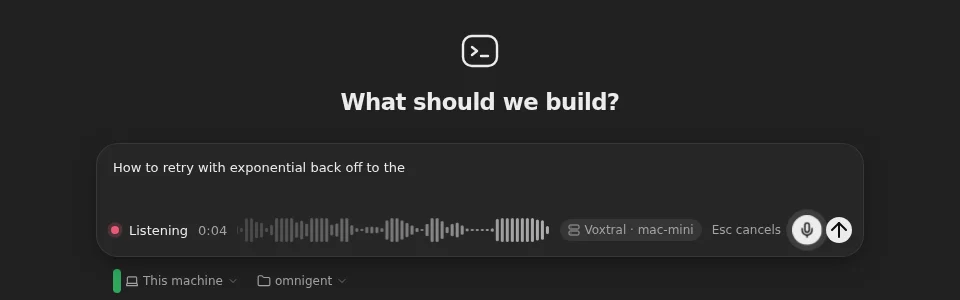
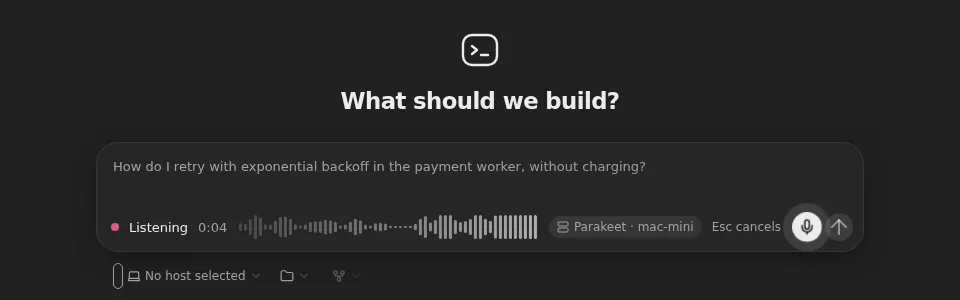
Name Parakeet as the speech server's own model in push-to-talk
The Mac mini's speech server now transcribes with NVIDIA's Parakeet TDT
0.6B v3 instead of Voxtral Realtime, which kept the base M2 busy 60-105%
of real time. Its protocol is unchanged, except that the local engine now
also sends words that may still change, which the composer already dims.

Settings → Speech and the listening bar say "Parakeet on mac-mini" and
"Parakeet · mac-mini", with Parakeet's latency (last words ~0.3 s after
you let go, was ~0.8 s). Mistral's cloud keeps its Voxtral name, but is
no longer "the same model". Docs, screenshots and the test skill follow.

diff --git a/docs/features/push-to-talk.md b/docs/features/push-to-talk.md
@@ -2,11 +2,12 @@
 
 Hold a key, or the mic button next to Send, and talk: your words stream into
 the composer as you say them. Let go, and the last words land a moment
-later. The speech is recognized by your own speech server, a Voxtral
-Realtime server on your tailnet (such as a Mac mini), which can also pass
-your voice on to Mistral's or Deepgram's cloud.
+later. The speech is recognized by your own speech server on your tailnet
+(such as a Mac mini), with NVIDIA's Parakeet, and it can also pass your voice
+on to Mistral's or Deepgram's cloud. Parakeet knows Dutch, English and 23
+more European languages, and tells them apart by itself.
 
-![The New session composer while you talk: the words so far, and below them a red dot, the time, a live waveform, Voxtral · mac-mini and Esc cancels, next to the highlighted mic button](../images/push-to-talk-composer.webp)
+![The New session composer while you talk: the words so far, dimmed while they may still change, and below them a red dot, the time, a live waveform, Parakeet · mac-mini and Esc cancels, next to the highlighted mic button](../images/push-to-talk-composer.webp)
 
 ## What you'll notice
 
@@ -20,7 +21,7 @@ your voice on to Mistral's or Deepgram's cloud.
   you're loud. The words appear at the caret and fade in as they arrive.
   Once they fill the composer, it scrolls to keep the newest ones in view.
 - **Let go**, and the bar says **Finishing** while the last words arrive:
-  about 0.8 seconds later with Voxtral on your server. The text stays in the
+  about 0.3 seconds later with Parakeet on your server. The text stays in the
   composer for you to check and send, or goes straight out if you turn on
   **Send when you let go**.
 - **Esc cancels**, and puts the draft back as it was. On a phone, slide
@@ -31,14 +32,14 @@ your voice on to Mistral's or Deepgram's cloud.
 
 ## Settings → Speech
 
-![Settings → Speech: the three models with their cost, the push-to-talk key with a Change button, and Send when you let go](../images/push-to-talk-settings.webp)
+![Settings → Speech: the three models with their cost, the push-to-talk key with a Change button, Send when you let go, and the words to listen for, which Parakeet can't use](../images/push-to-talk-settings.webp)
 
 | Setting | What it does |
 | --- | --- |
-| **Transcription model** | **Voxtral on your server** runs on the speech server's own machine: free and private. **Voxtral on Mistral's cloud** is the same model on Mistral's servers. **Deepgram Nova-3** shows words while you're still saying them, dimmed, and corrects them. The two cloud ones are billed per minute of audio. |
+| **Transcription model** | **Parakeet on your server** runs on the speech server's own machine: free and private. **Voxtral on Mistral's cloud** is Mistral's Voxtral Realtime. **Parakeet** and **Deepgram Nova-3** show words while you're still saying them, dimmed, and correct them. The two cloud ones are billed per minute of audio. |
 | **Push-to-talk key** | The key you hold. **Change**, then press the key you want; Esc keeps the old one. Held together with another key, it's a shortcut instead, and the take is dropped. |
 | **Send when you let go** | Off: the words stay in the composer. On: they're sent straight away. |
-| **Words to listen for** | Names and jargon the cloud models should expect, such as `Omnigent` or `k3s`. Voxtral on your own server can't use them. |
+| **Words to listen for** | Names and jargon the cloud models should expect, such as `Omnigent` or `k3s`. Parakeet on your own server can't use them. |
 | **Speech server** | Where your voice goes, and whether this device can reach it. |
 
 These are saved in the browser, so set them once on each device. They're part
@@ -61,7 +62,7 @@ Deepgram either.
 
 ## Setting it up
 
-1. Run a Voxtral Realtime speech server on a machine on your tailnet, behind
+1. Run a speech server on a machine on your tailnet, behind
    `tailscale serve` so it has HTTPS. The one this was built with streams
    16 kHz PCM over `wss://<machine>/stream` and is described in its own
    `API.md`.
@@ -80,7 +81,7 @@ Deepgram either.
   server never sees the audio, so every device you dictate from must be on
   the tailnet. **Settings → Speech** says **Can't reach it from this
   device** when it isn't.
-- **One person at a time** can use Voxtral on your server; someone else
+- **One person at a time** can use Parakeet on your server; someone else
   talking at the same time gets "Someone else is already using this Mac's
   model."
 - **Both composers have it:** a session's and the New session screen's. The

diff --git a/.claude/skills/test-custom-features/SKILL.md b/.claude/skills/test-custom-features/SKILL.md
@@ -676,7 +676,7 @@ settings.
 | No Share button | No **Share** in the chat header or its menu. Open a session row's menu (⋯) in the sidebar: it has **Fork** but no **Share**. Close the menu with Escape. |
 | No pin or archive buttons in the sidebar | Session rows in the sidebar have a `Conversation actions` button (⋯) and no `Pin conversation`, `Unpin conversation` or `Archive conversation` button. A row's ⋯ menu has **Pin** (**Unpin** under **Pinned**) and **Archive**. Close the menu with Escape without picking anything. |
 | No upstream voice dictation | This session's composer has no `Voice dictation` button between the model picker and the send button, and neither has the **New session** screen's. Open **Keyboard shortcuts** (⌘/ or Ctrl+/): **In chats** has no **Toggle voice dictation**. Close it with Escape. |
-| Push-to-talk | With `push_to_talk_url` in the environment file, this session's composer has a `Hold to talk` button between the model picker and the send button, the same size and centred on the same line as Send, and so has the **New session** screen's. Without it there's no such button. Open Settings → **Speech** (`https://<hostname>/settings/speech`): it lists **Voxtral on <machine>**, **Voxtral on Mistral's cloud** and **Deepgram Nova-3**, the push-to-talk key (**Right ⌥** unless someone changed it), **Send when you let go**, **Words to listen for**, and the speech server's address with **Online** (or **Can't reach it from this device**, which is expected when the desktop app's device isn't on the tailnet). Without the setting it says how to turn it on. Don't change anything, and don't hold the button: talking is left to the user (step 6). |
+| Push-to-talk | With `push_to_talk_url` in the environment file, this session's composer has a `Hold to talk` button between the model picker and the send button, the same size and centred on the same line as Send, and so has the **New session** screen's. Without it there's no such button. Open Settings → **Speech** (`https://<hostname>/settings/speech`): it lists **Parakeet on <machine>**, **Voxtral on Mistral's cloud** and **Deepgram Nova-3**, the push-to-talk key (**Right ⌥** unless someone changed it), **Send when you let go**, **Words to listen for**, and the speech server's address with **Online** (or **Can't reach it from this device**, which is expected when the desktop app's device isn't on the tailnet). Without the setting it says how to turn it on. Don't change anything, and don't hold the button: talking is left to the user (step 6). |
 | Fuzzy file search with @ | In this session's composer, type `@chkrunner` and don't send it. The menu is headed **Search workspace**, and its first row is `check-runner` with `.claude/skills/test-custom-features/scripts/` in grey, the matched letters in bold. Press Enter: the composer now reads `@.claude/skills/test-custom-features/scripts/check-runner ` (the mention stays in the text, with a space after it) with the path in the accent colour on a light tint, and no chip appears under the composer. Type `@.claude/` instead: it lists that folder's entries, headed `/.claude`. Clear the composer without sending. A menu that only lists the workspace's top level, or nothing, for `@chkrunner` means the file index didn't load: check the runner and server patches and that this session started after the deploy. |
 | Model picker | Start a new session (don't send it) with the Kubernetes sandbox and Claude Code: the model menu lists models, such as Opus and Sonnet, and never says `Models unavailable`. Repeat for Codex. Then discard it. |
 | Repository variables page | If you're an admin, Settings has **Repository variables** under Admin. It lists repositories with their variable names and `••••••••`, never a value. Don't add, edit or remove anything. Not an admin: record SKIP. |

diff --git a/docs/features/README.md b/docs/features/README.md
@@ -20,7 +20,7 @@ What you see and choose while talking to an agent.
 | [Start without a message](start-without-message.md) | Start a session from the New session screen with an empty composer, so its sandbox and @ file search are ready before you ask anything | Nothing to turn off |
 | [Your first message survives closing the app](first-message-while-starting.md) | Send a new session's first message and close the app while the sandbox starts: the agent still gets it | Nothing to turn off |
 | [Images, video and audio in the chat](inline-media.md) | An agent's screenshots show in the chat, side by side in a grid, and open full screen to pinch-zoom and swipe through; videos and audio play in place; in the desktop app, right-click one to copy it; the server keeps a copy, so they still show once the sandbox is asleep or archived | No |
-| [Push-to-talk](push-to-talk.md) | Hold Right ⌥ or the mic button and talk: your words stream into the composer from your own Voxtral speech server, or through it from Mistral's or Deepgram's cloud | Yes, remove `push_to_talk_url` |
+| [Push-to-talk](push-to-talk.md) | Hold Right ⌥ or the mic button and talk: your words stream into the composer from your own speech server running Parakeet, or through it from Mistral's or Deepgram's cloud | Yes, remove `push_to_talk_url` |
 | [Progress bars from the agent](agent-progress.md) | During long work, the agent shows what it's doing and how far along it is, in a one-line bar above Working…, with the work's log, such as a test run's or a dev server's, a click away; once it's done, the bar stays at the end of its reply with its log | Nothing to turn off: the agent shows one only for long work |
 
 ## Subscriptions
